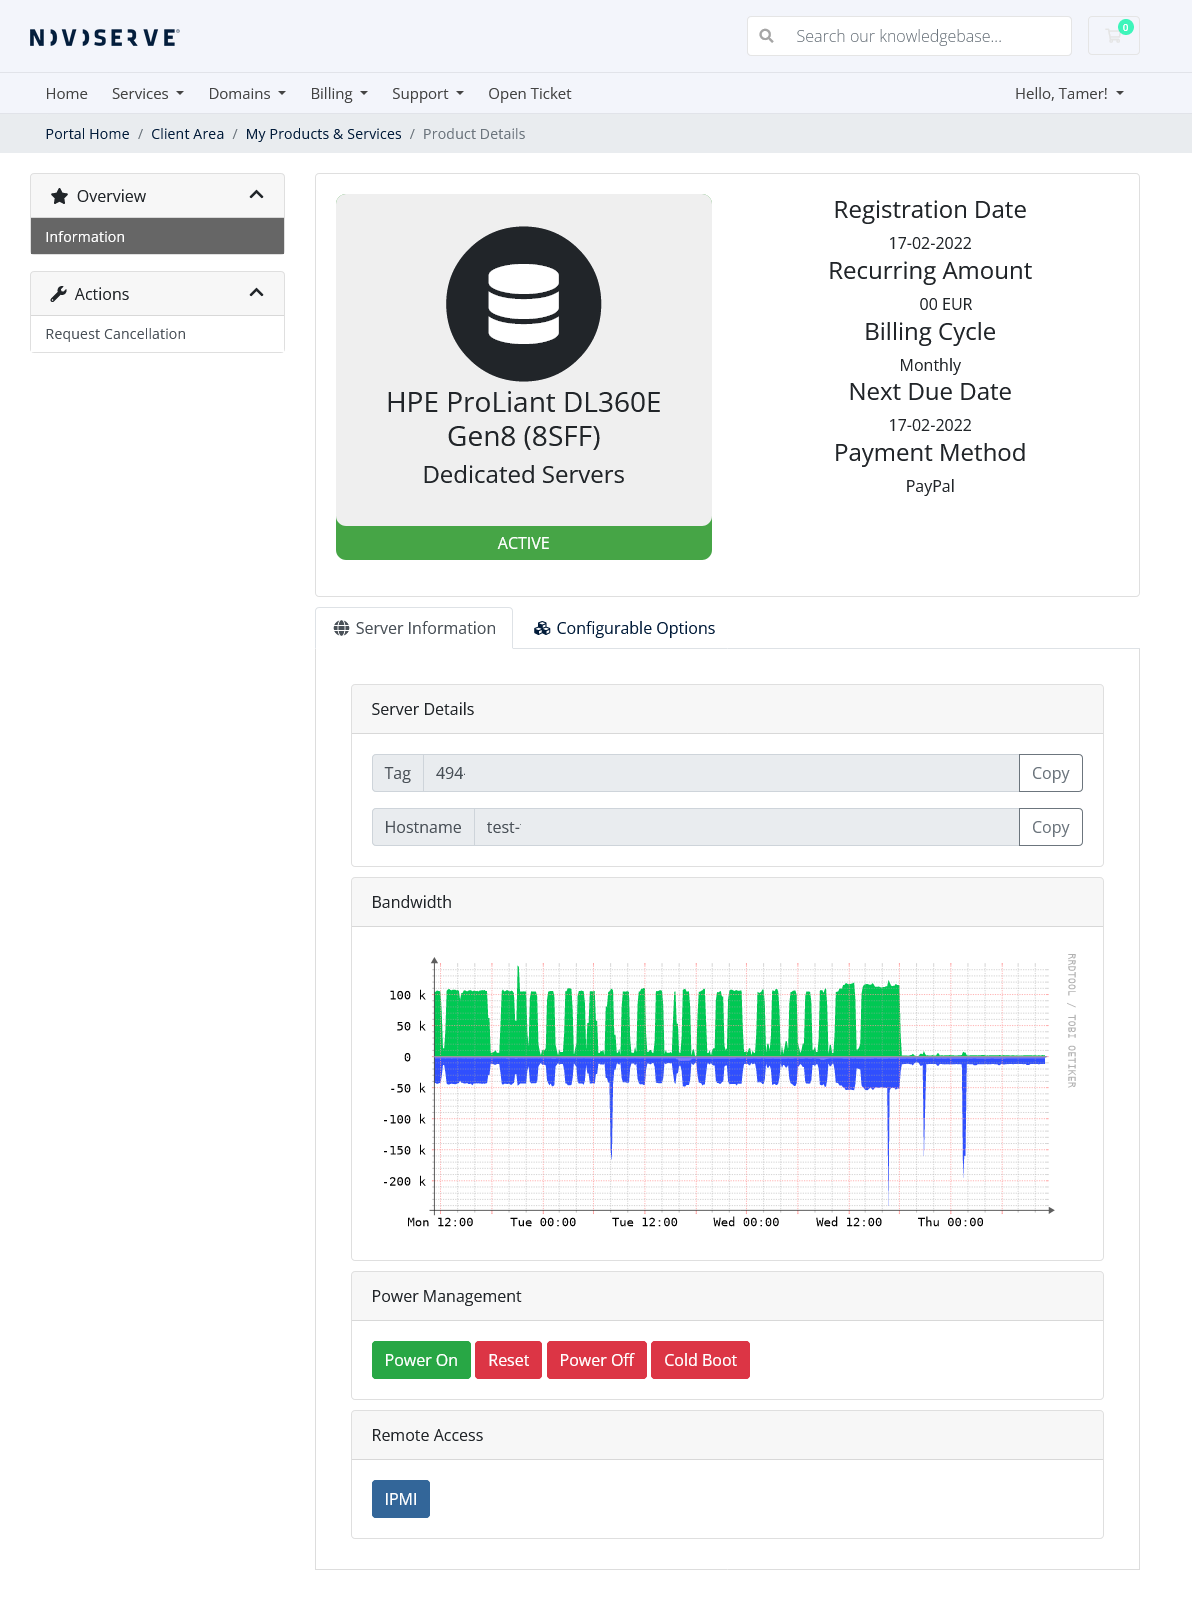
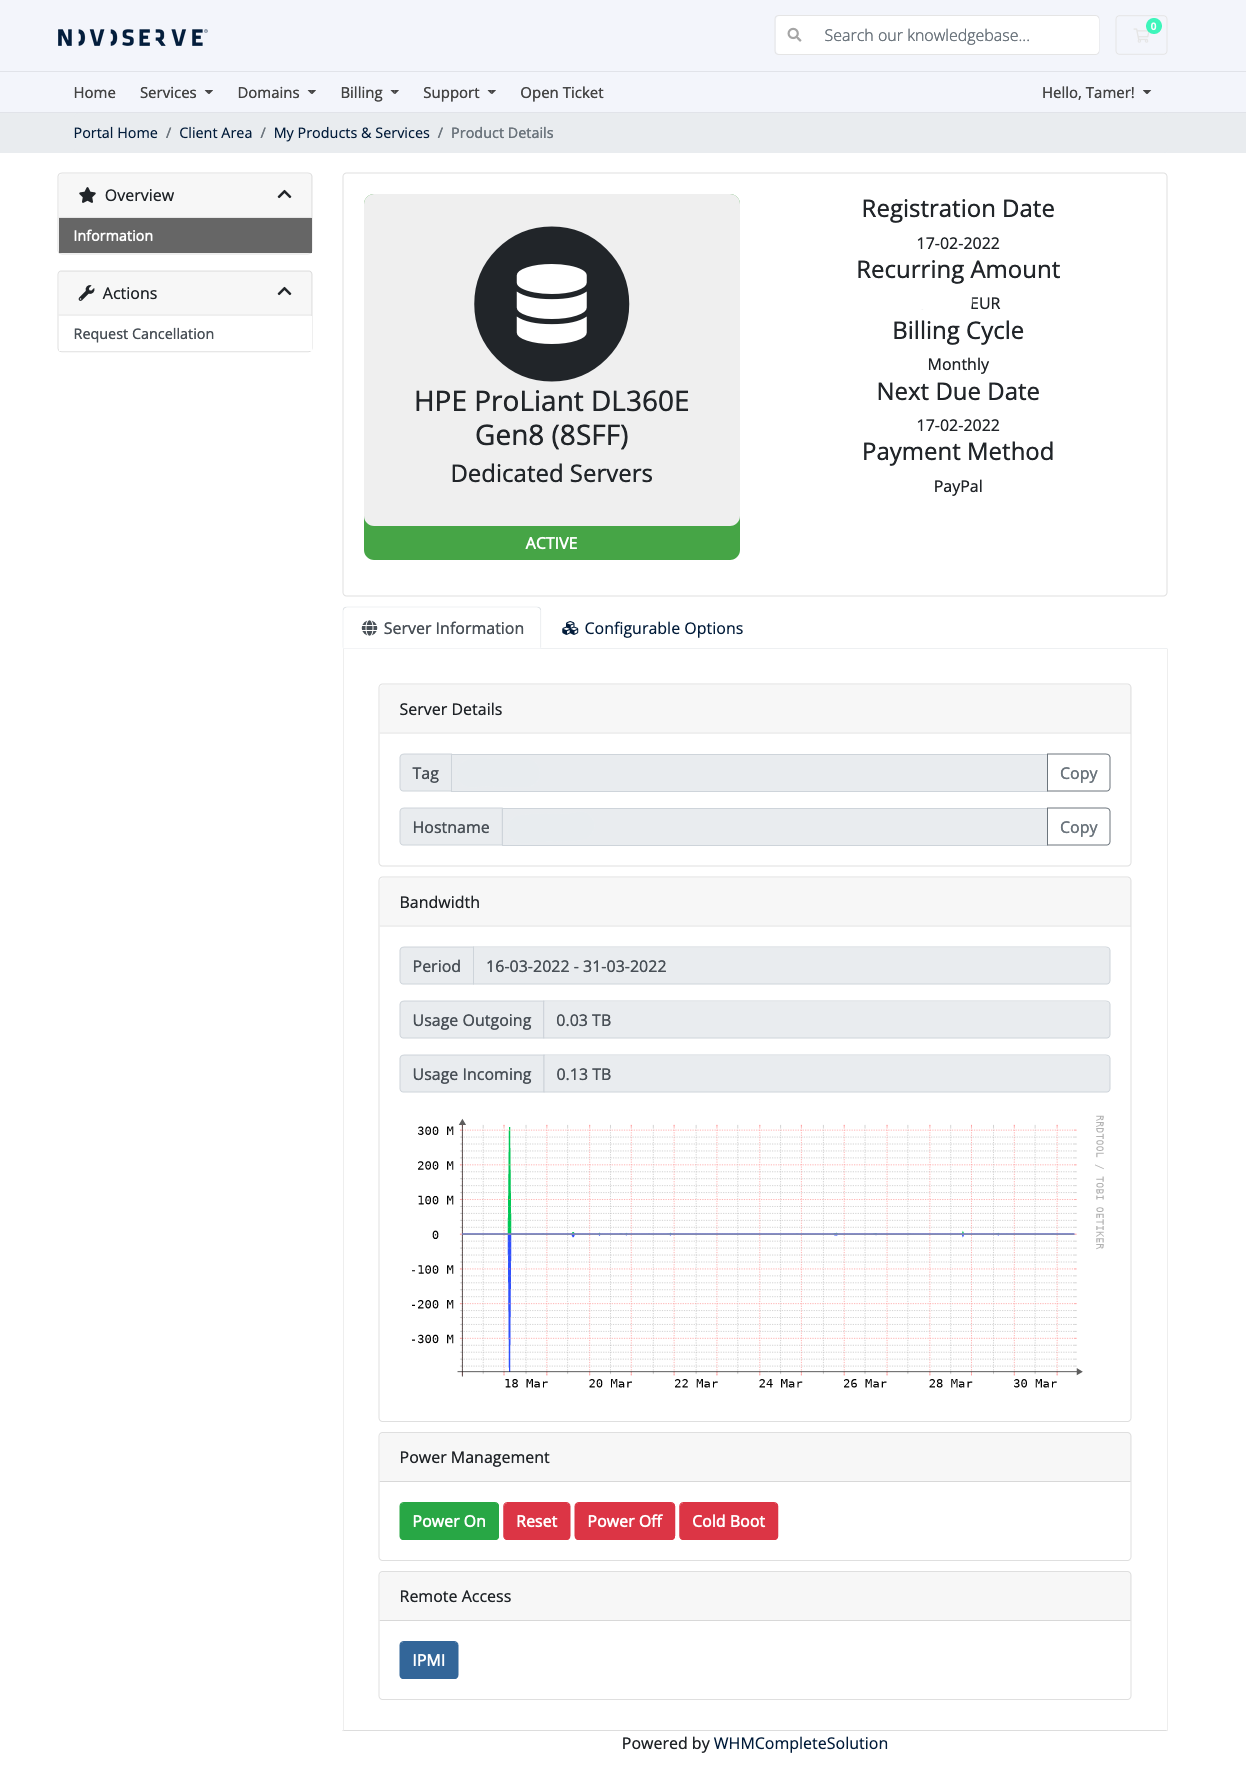
Added Traffic Usage feature.

diff --git a/modules/servers/novoserve/novoserve.php b/modules/servers/novoserve/novoserve.php
@@ -166,6 +166,23 @@ function novoserve_ClientArea(array $params)
         $serverTag = new AssetTag($params['username']);
         $serviceStatus = $params['status'];
 
+        // Some over-engineered code to get the actual current traffic period;
+        if ($params['model']->billingcycle != 'Free Account') {
+            $nextDueDateTime = new DateTime($params['model']->nextduedate);
+            $nextDueDateDay = $nextDueDateTime->format('d');
+            if (date('d') <= $nextDueDateDay) {
+                $getPeriodEnd = $nextDueDateDay.'-'.date('m-Y');
+                $getPeriodEndDateTime = new DateTime($getPeriodEnd);
+                $getPeriodEndDateTime->modify('-1 month');
+                $getPeriodStart = $getPeriodEndDateTime->format('d-m-Y');
+            } else {
+                $getPeriodEnd = $nextDueDateDay.'-'.(sprintf("%02d", date('m')+1)).'-'.date('Y');
+                $getPeriodEndDateTime = new DateTime($getPeriodEnd);
+                $getPeriodEndDateTime->modify('-1 month');
+                $getPeriodStart = $getPeriodEndDateTime->format('d-m-Y');
+            }
+        }
+
         // Stop if service is not active;
         if ($serviceStatus != 'Active') {
             throw new Exception('Service is not active.');
@@ -209,9 +226,18 @@ function novoserve_ClientArea(array $params)
             'whitelabel' => $whiteLabel
         ]);
         $getBandwidthGraph = $api->get('servers/'.$serverTag.'/bandwidth/graph', [
-            'from' => time()-259200, // 3 days
+            'from' => strtotime($getPeriodStart),
             'height' => 200
         ]);
+        $getTrafficUsage = $api->get('servers/'.$serverTag.'/bandwidth', [
+            'from' => strtotime($getPeriodStart)
+        ]);
+
+        // Prepare values before loading it into template vars;
+        $getTrafficUsage['results']['dateTimeFrom'] = date('d-m-Y', strtotime($getTrafficUsage['results']['dateTimeFrom']));
+        $getTrafficUsage['results']['dateTimeUntil'] = date('d-m-Y', strtotime($getTrafficUsage['results']['dateTimeUntil']));
+        $getTrafficUsage['results']['usage'] = round($getTrafficUsage['results']['usage'], 2);
+        $getTrafficUsage['results']['download'] = round($getTrafficUsage['results']['download'], 2);
 
         // Load and return template with variables;
         return array(
@@ -222,6 +248,7 @@ function novoserve_ClientArea(array $params)
                 'serverHostname' => $params['domain'],
                 'ipmiLink' => $getIpmiLink['results'],
                 'bandwidthGraph' => $getBandwidthGraph['results']['image'],
+                'trafficUsage' => $getTrafficUsage['results']
             ),
         );
 

diff --git a/README.md b/README.md
@@ -10,7 +10,8 @@ Features:
 - Autologin IPMI for the admin side;
 - Whitelabel console URL generation;
 - Server power management;
-- Bandwidth usage graph.
+- Bandwidth usage graph;
+- Traffic usage for current period.
 
 ### Screenshot
 [![](screenshot.png)]()
@@ -23,7 +24,7 @@ Features:
 ### Installation
 
 1. Upload the contents of the ZIP into your WHMCS root directory.
-2. Setup a new or use an existing Product:
+2. Setup a new or use an existing Product as "Server/VPS":
 3. Under Module Settings, select the "NovoServe Module".
 4. Now enter your API credentials accordingly and decide if you want whitelabel consoles (without any logo), or the default NovoServe branded. If you want to use the whitelabel console then enter "yes" in the textbox. For resellers with the branded console can also use their ID here.
 5. Go to a service that uses this (newly) product and ensure that the Username contains a server tag (000-000). This is a requirement.

diff --git a/CHANGELOG.md b/CHANGELOG.md
@@ -4,6 +4,10 @@ All notable changes to this project will be documented in this file.
 The format is based on [Keep a Changelog](https://keepachangelog.com/en/1.0.0/),
 and this project adheres to [Semantic Versioning](https://semver.org/spec/v2.0.0.html).
 
+## [1.1.0] - 29-03-2022
+### Added
+- Traffic usage for current period.
+
 ## [1.0.1] - 24-02-2022
 ### Changed
 - Bug fixed in whitelabel validation.
